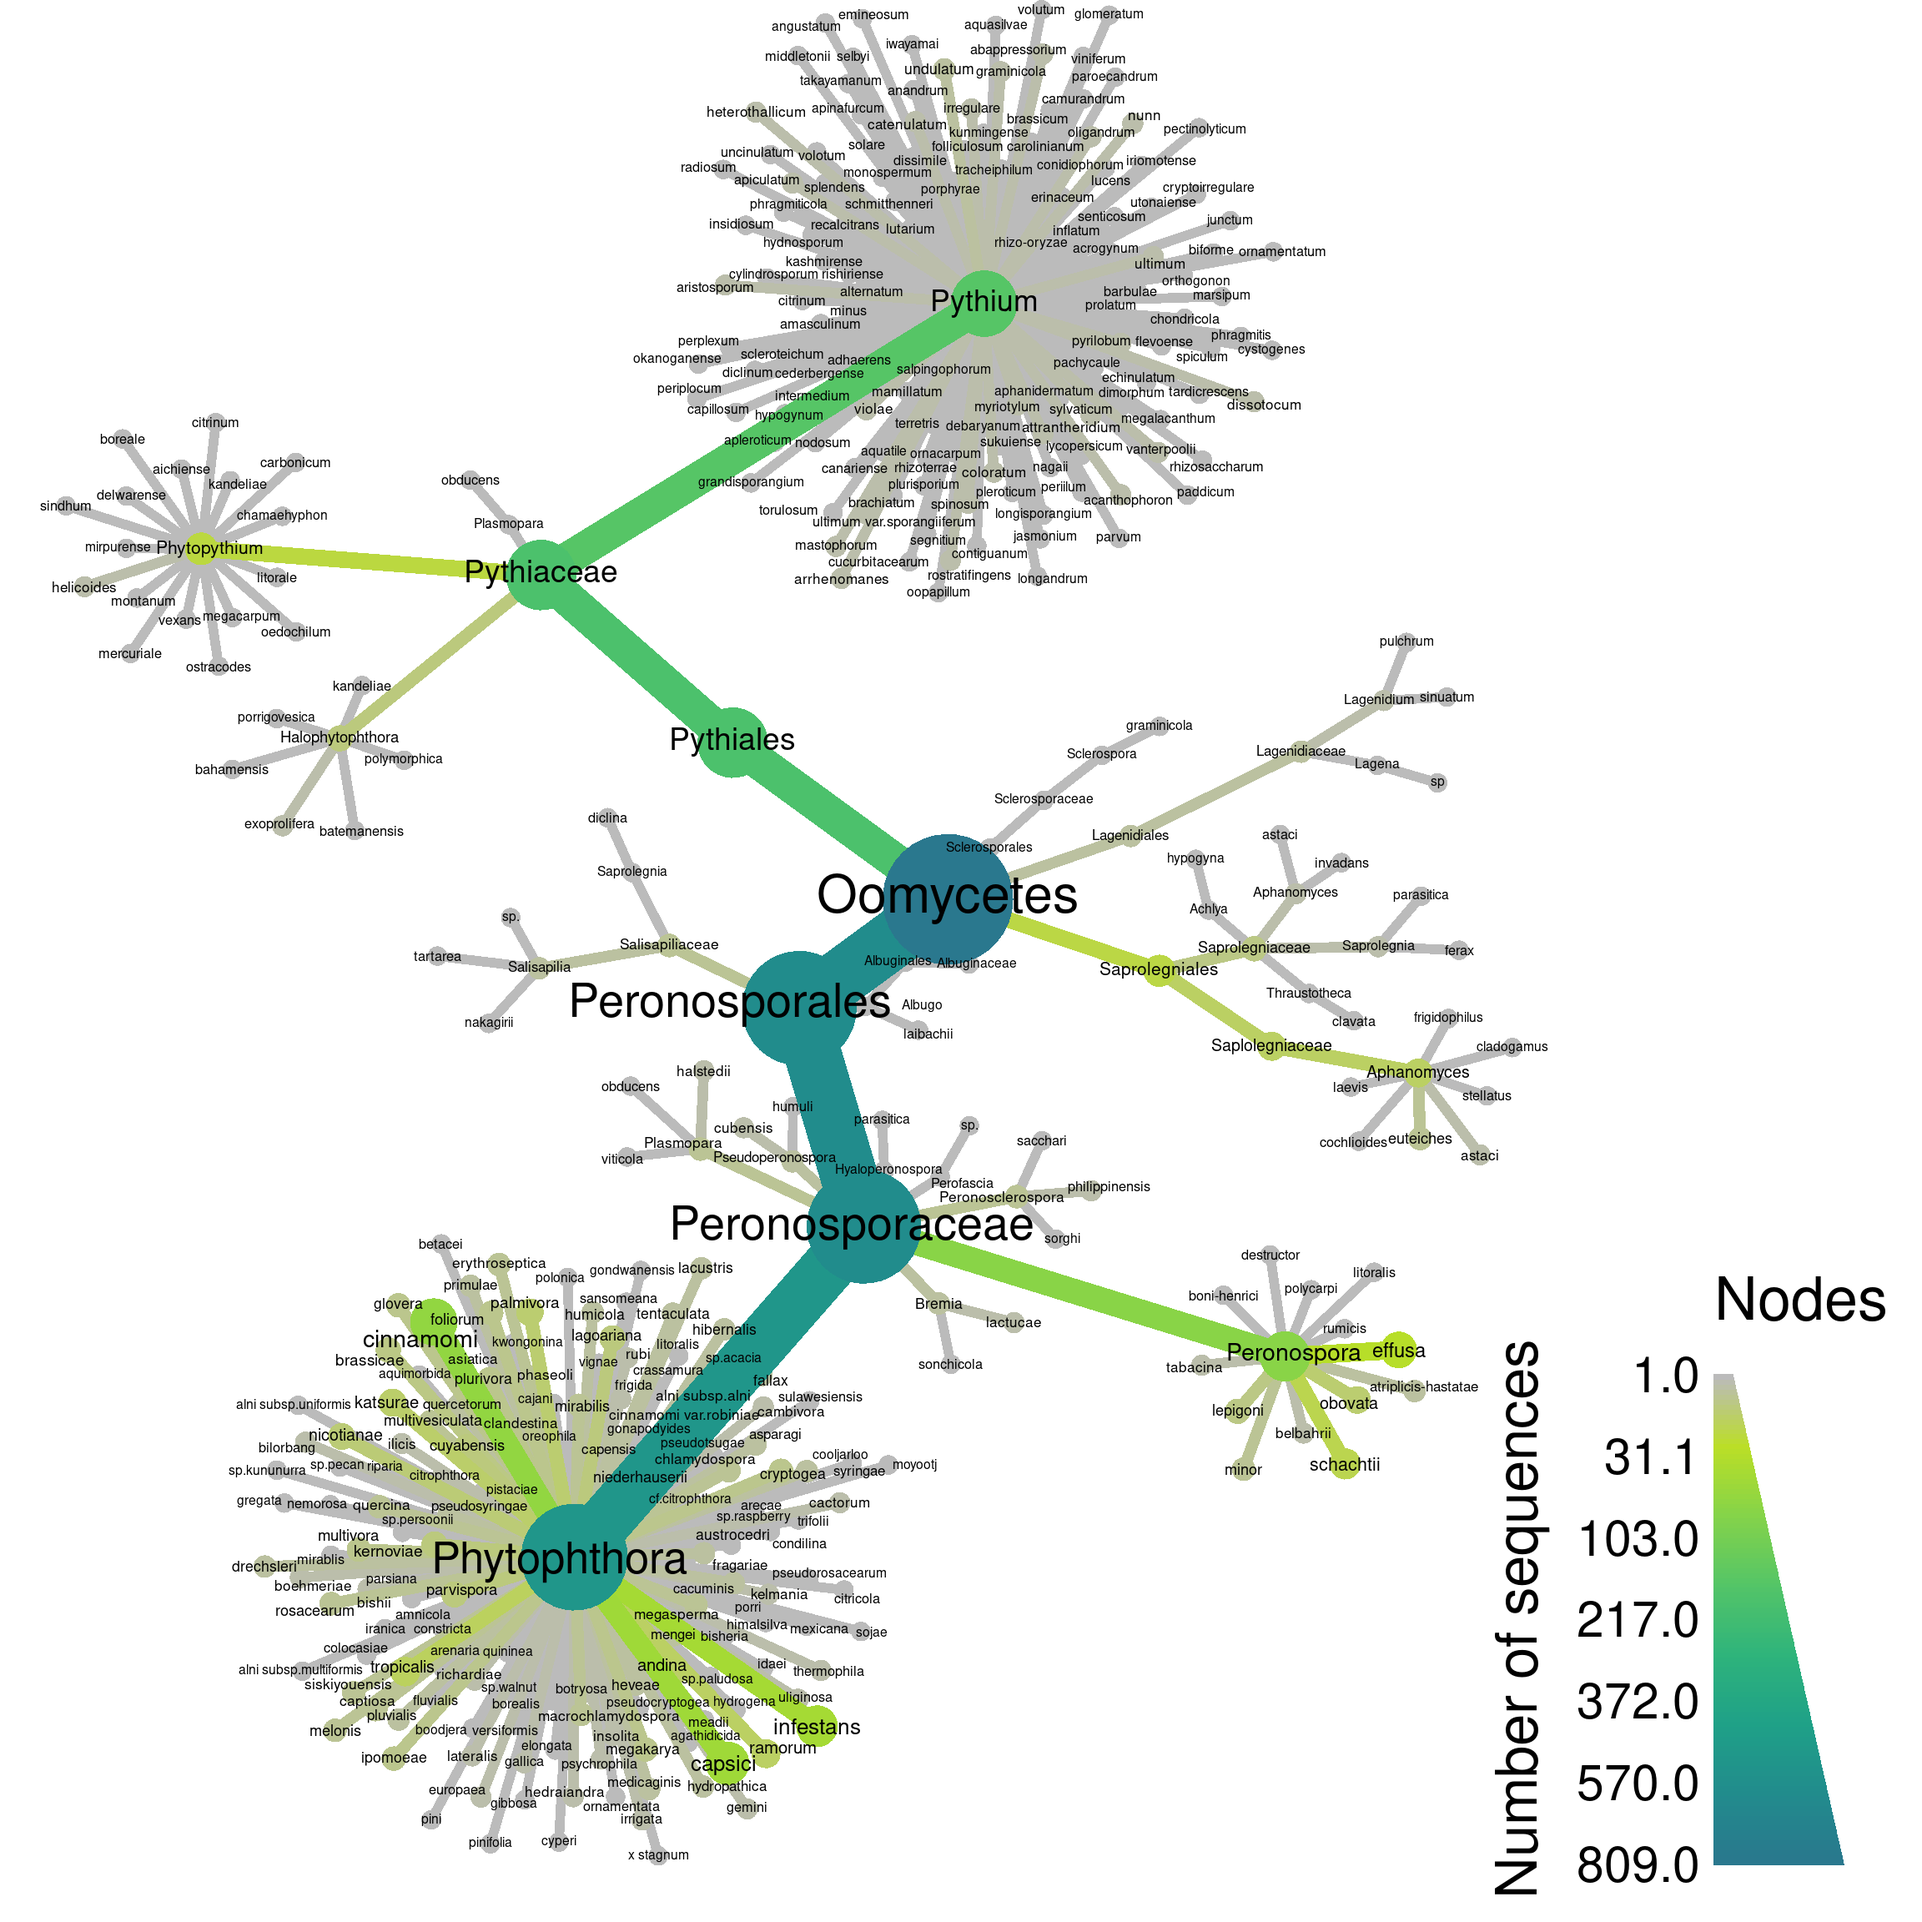
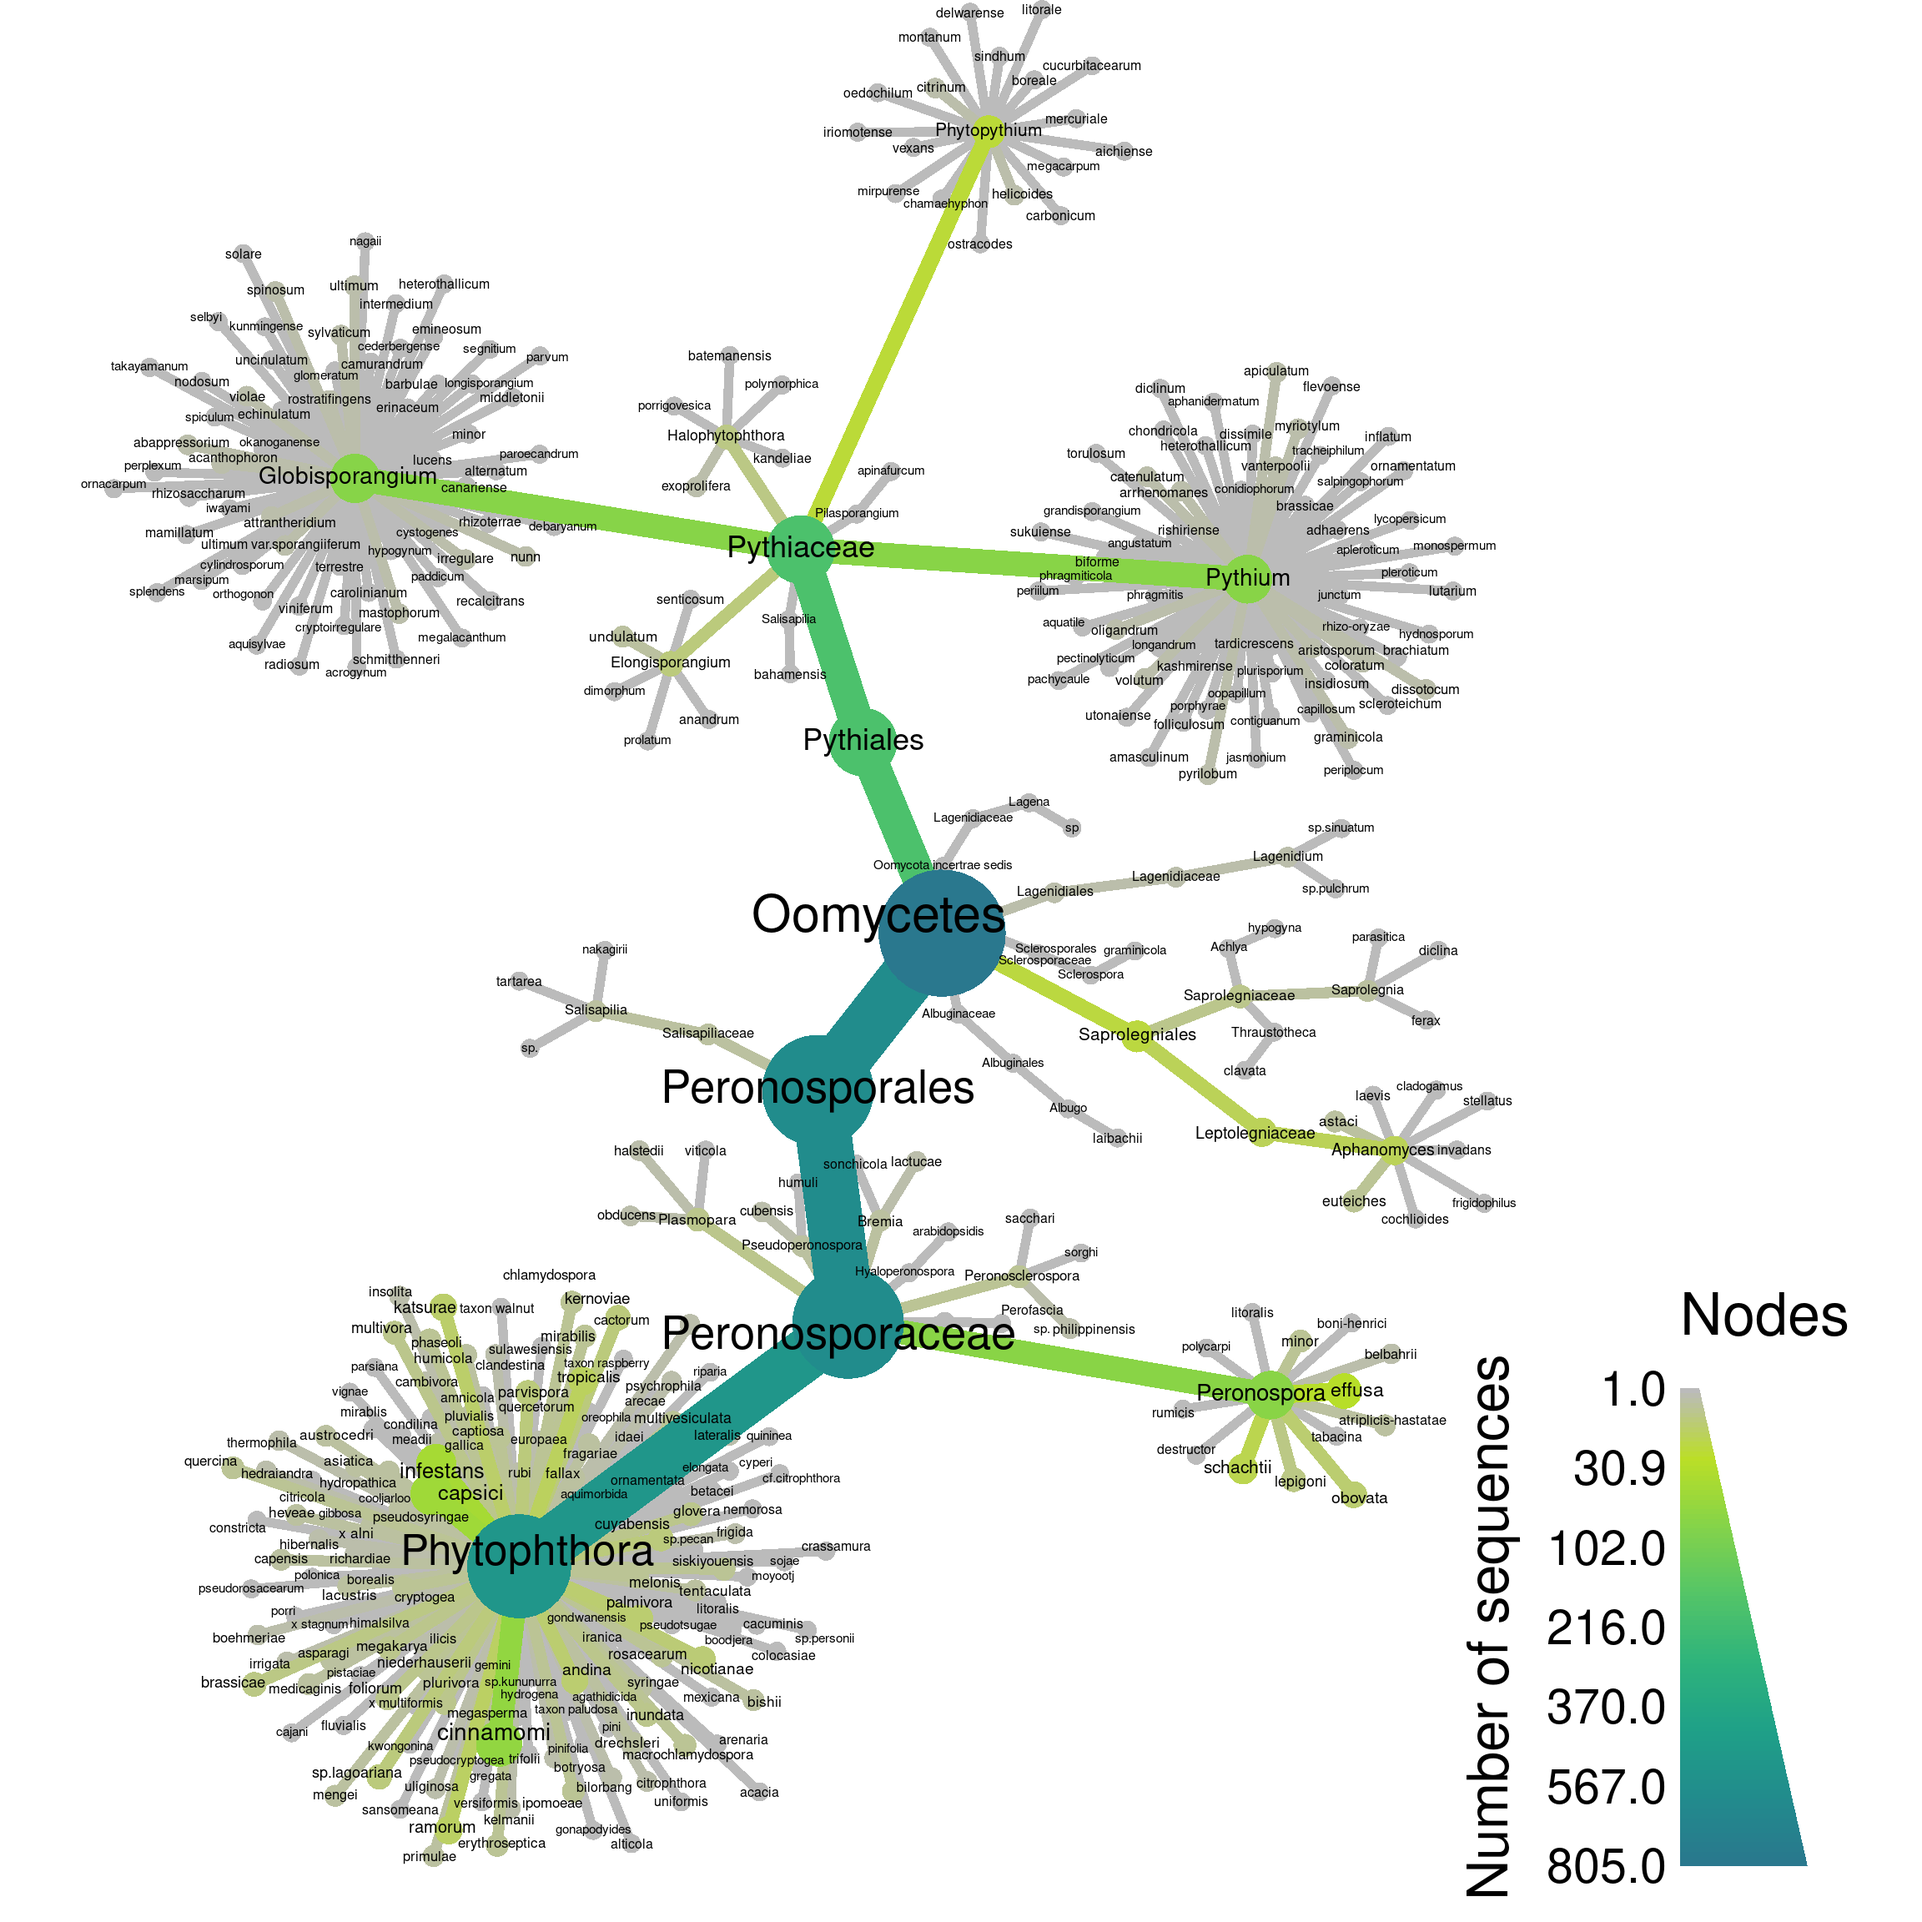
update home page figures to release 2 data

Changed region(s): [[0.0312, 0.0, 1.0, 1.0]]

diff --git a/docs/index.html b/docs/index.html
@@ -289,7 +289,7 @@ database:</p>
 </iframe> -->
 <p><img src="index_files/figure-html/unnamed-chunk-1-1.png" width="1152" /></p>
 <p>OomyceteDB currently includes the following Oomycete taxa:</p>
-<table class="table table-striped" style="width: auto !important; margin-left: auto; margin-right: auto;">
+<table class="table table-striped" style="color: black; width: auto !important; margin-left: auto; margin-right: auto;">
 <thead>
 <tr>
 <th style="text-align:left;">
@@ -312,7 +312,18 @@ Phytophthora
 144
 </td>
 <td style="text-align:left;">
-509
+507
+</td>
+</tr>
+<tr>
+<td style="text-align:left;font-style: italic;">
+Globisporangium
+</td>
+<td style="text-align:left;">
+63
+</td>
+<td style="text-align:left;">
+75
 </td>
 </tr>
 <tr>
@@ -320,10 +331,10 @@ Phytophthora
 Pythium
 </td>
 <td style="text-align:left;">
-133
+61
 </td>
 <td style="text-align:left;">
-159
+73
 </td>
 </tr>
 <tr>
@@ -331,10 +342,10 @@ Pythium
 Phytopythium
 </td>
 <td style="text-align:left;">
-17
+18
 </td>
 <td style="text-align:left;">
-18
+20
 </td>
 </tr>
 <tr>
@@ -345,7 +356,7 @@ Peronospora
 13
 </td>
 <td style="text-align:left;">
-73
+72
 </td>
 </tr>
 <tr>
@@ -353,7 +364,7 @@ Peronospora
 Aphanomyces
 </td>
 <td style="text-align:left;">
-9
+8
 </td>
 <td style="text-align:left;">
 13
@@ -361,10 +372,10 @@ Aphanomyces
 </tr>
 <tr>
 <td style="text-align:left;font-style: italic;">
-Halophytophthora
+Elongisporangium
 </td>
 <td style="text-align:left;">
-6
+5
 </td>
 <td style="text-align:left;">
 7
@@ -372,13 +383,24 @@ Halophytophthora
 </tr>
 <tr>
 <td style="text-align:left;font-style: italic;">
-Plasmopara
+Halophytophthora
+</td>
+<td style="text-align:left;">
+5
+</td>
+<td style="text-align:left;">
+6
+</td>
+</tr>
+<tr>
+<td style="text-align:left;font-style: italic;">
+Salisapilia
 </td>
 <td style="text-align:left;">
 4
 </td>
 <td style="text-align:left;">
-5
+4
 </td>
 </tr>
 <tr>
@@ -394,13 +416,13 @@ Peronosclerospora
 </tr>
 <tr>
 <td style="text-align:left;font-style: italic;">
-Salisapilia
+Plasmopara
 </td>
 <td style="text-align:left;">
 3
 </td>
 <td style="text-align:left;">
-3
+5
 </td>
 </tr>
 <tr>
@@ -504,6 +526,17 @@ Perofascia
 </tr>
 <tr>
 <td style="text-align:left;font-style: italic;">
+Pilasporangium
+</td>
+<td style="text-align:left;">
+1
+</td>
+<td style="text-align:left;">
+1
+</td>
+</tr>
+<tr>
+<td style="text-align:left;font-style: italic;">
 Sclerospora
 </td>
 <td style="text-align:left;">
@@ -529,10 +562,10 @@ Thraustotheca
 <strong>Total</strong>
 </td>
 <td style="text-align:left;">
-<strong>348</strong>
+<strong>344</strong>
 </td>
 <td style="text-align:left;">
-<strong>809</strong>
+<strong>805</strong>
 </td>
 </tr>
 </tbody>
